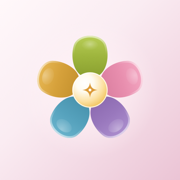
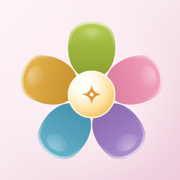
v0.6.9: phóng to bông hoa trong mọi biểu tượng (≈78%), tách lại bản maskable (≈71%, trong vùng an toàn)

Changed region(s): [[0.1111, 0.1111, 0.8889, 0.8889]]

diff --git a/sw.js b/sw.js
@@ -3,8 +3,8 @@
    Trang chính: lấy bản mới từ mạng trước, mất mạng (hoặc quá 4 giây) thì dùng bản đã lưu.
    Tệp tĩnh và thư viện Supabase (đã ghim phiên bản): dùng bản đã lưu, chưa có thì tải.
    Mỗi lần phát hành phải đổi VERSION để máy người dùng nhận bản mới và hiện thanh "Có bản mới". */
-const VERSION = "lc-0.6.8";
-const CORE = ["./", "manifest.json", "favicon.ico", "favicon-32x32.png", "icon-96.png", "icon-192.png", "icon-512.png", "apple-touch-icon.png"];
+const VERSION = "lc-0.6.9";
+const CORE = ["./", "manifest.json", "favicon.ico", "favicon-32x32.png", "icon-96.png", "icon-192.png", "icon-512.png", "icon-maskable-512.png", "apple-touch-icon.png"];
 const CDN = "https://cdn.jsdelivr.net/npm/"; // thư viện ghim phiên bản, không đổi nội dung
 
 self.addEventListener("install", e => {

diff --git a/index.html b/index.html
@@ -2399,7 +2399,7 @@ const save = () => {
    hay cửa sổ khác đã ghi mà tab này không nhận được (tab bị trình duyệt tạm dừng, trang khôi phục từ
    bộ nhớ đệm, bản cũ của app không biết lắng nghe…): gộp hai bên thay vì ghi đè.
    Dữ liệu do bản này ghi có sv = 2. Bên ghi không có sv (bản cũ) thì chỉ cộng thêm, không xóa gì. */
-const APPV = 68; // v0.6.8
+const APPV = 69; // v0.6.9
 const SV = 3; // 3 (v0.4.0): hoạt động có mã riêng và thời điểm sửa; bản ghi sv khác được gộp kiểu cộng thêm
 let lastRaw = rawSaved, oldWriterSeen = 0;
 // Đồng bộ giữa các thiết bị (v0.4.0, xem phần ĐỒNG BỘ ở cuối tệp)

diff --git a/CHANGELOG.md b/CHANGELOG.md
@@ -2,6 +2,12 @@
 
 Địa chỉ: https://lifecapital.vercel.app · Dữ liệu nằm trong trình duyệt của từng máy; cập nhật phiên bản không xóa dữ liệu.
 
+## v0.6.9 · Phóng to bông hoa trong biểu tượng · 03/11/2026
+
+**Đổi**
+- Bông hoa trong mọi biểu tượng (favicon, iPhone/iPad, Android, logo thanh bên) to hơn: chiếm khoảng 78% chiều rộng thay vì 58%, canh giữa.
+- Bản maskable cho Android tách riêng lại, hoa chiếm khoảng 71% để vẫn nằm trong vùng an toàn khi hệ điều hành cắt icon thành hình tròn.
+
 ## v0.6.8 · Dọn thư mục dự án · 03/11/2026
 
 **Dọn**
